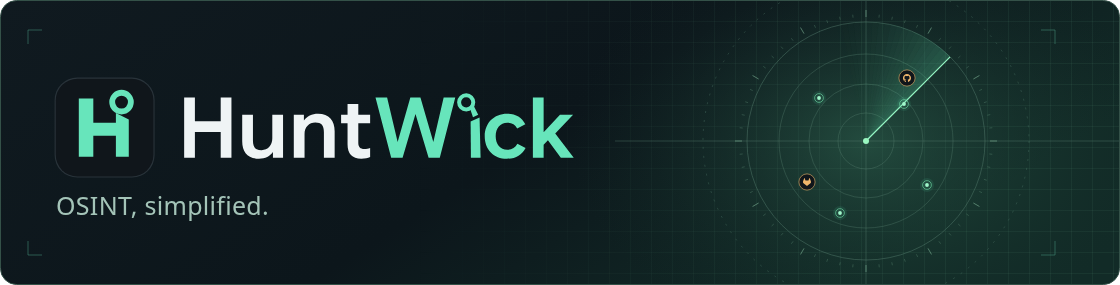
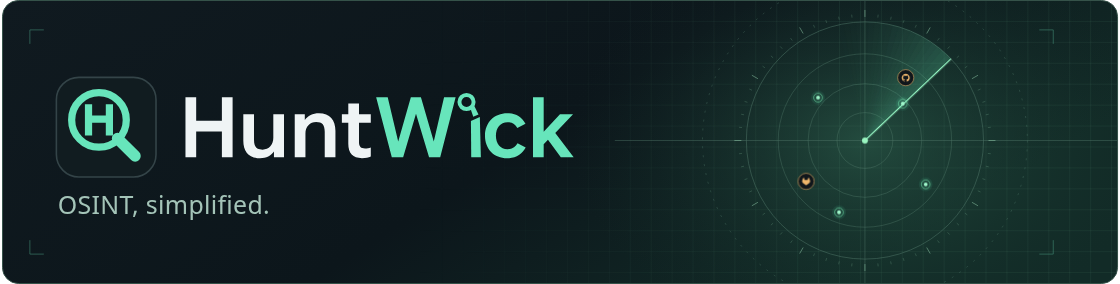
Record RC.6 console evidence, scoped live engine comparison and coverage limits [skip ci]

diff --git a/README.md b/README.md
@@ -10,7 +10,7 @@
 
 HuntWick Desktop is a local application for discovering public profiles that use a particular username. Enter a handle, choose **Quick search** for a curated set of platforms or **Full search** for every enabled compatible platform, then select **Search**. Results appear as checks finish. A matching username alone cannot establish identity or common ownership.
 
-![RC.5 desktop search console, rendered with fixture IPC](docs/rc5-media/dark.png)
+![RC.6 candidate desktop search console](docs/rc6-media/normal.png)
 
 [Desktop in light mode](docs/rc5-media/light.png) · [Web in light mode](docs/screenshots/web-light.png)
 
@@ -22,16 +22,18 @@ RC.5 is the published preview. In RC.4, open **Settings → Software updates →
 
 The installers bundle the Python runtime and Sherlock. Launch HuntWick from your applications menu. The platform directory and settings work offline. A live search needs a network connection to the selected sites.
 
-## Search workspace
+## Search workspace in the RC.6 candidate
+
+[Compact window](docs/rc6-media/compact-console.png) · [Coverage and live comparison](docs/rc6-quality.md)
 
 | Desktop engine | Default eligible platforms | Evidence |
 | --- | ---: | --- |
 | Sherlock Original | 394 | Original Sherlock verdict |
-| Enhanced Search | 396 | Native public lookups and Sherlock rules |
-| Maigret | 4,179 | Maigret 0.6.7 provider verdict |
-| Deep Search | 4,550 | One result per normalized profile, with individual source verdicts |
+| Enhanced Search | 396 | Native API verification, including Scratch, and remaining Sherlock rules |
+| Maigret | 4,186 | Maigret 0.6.7 provider verdict |
+| Deep Search | 4,552 | Combined coverage, prioritized checks, and expandable source verdicts |
 
-The pinned Maigret database contains 11,071 definitions. Upstream enables 10,335. HuntWick accepts 4,180 reviewed-route definitions before category preferences and records exclusion reasons for 6,891. Eligibility describes a supported rule. Sites can still time out, deny access or change their profiles. A provider claim and independent API evidence appear separately.
+The pinned Maigret database contains 11,071 definitions. Upstream enables 10,335. HuntWick accepts 4,188 reviewed-route definitions before category preferences and records exclusion reasons for 6,883. Eligibility describes a supported rule. Sites can still time out, deny access or change their profiles. A provider claim and independent API evidence appear separately.
 
 ```mermaid
 flowchart LR
@@ -45,11 +47,11 @@ flowchart LR
 
 ![Switching engines in the desktop console](docs/rc5-media/engine-selector.gif)
 
-The radar uses small circular blips with larger keyboard and pointer targets. Focus a blip for its platform and result state. New desktop installs enable restrained detection sounds. Scanning sounds are optional, with volume and previews in Settings. [Radar](docs/rc4-media/web-desktop.png) · [Update settings](docs/rc4-media/updates-dark.png) · [Original detection sound](docs/rc4-media/verified.wav)
+The radar uses small circular blips with larger keyboard and pointer targets. Each blip has a platform and result label; activating it opens the result link. New desktop installs enable restrained detection sounds. Scanning sounds are optional, with volume and previews in Settings. [Radar](docs/rc4-media/web-desktop.png) · [Update settings](docs/rc4-media/updates-dark.png) · [Original detection sound](docs/rc4-media/verified.wav)
 
-The desktop Search console can include adult-labeled platforms after confirmation and enable experimental upstream-excluded checks separately. The diagnostic JSON export omits handles and profile URLs. [Coverage and CLI comparison](docs/catalog-audit.md)
+The desktop Search console can include adult-labeled platforms with one persistent switch and enable experimental upstream-excluded checks separately. The diagnostic JSON export omits handles and profile URLs. [Coverage and CLI comparison](docs/catalog-audit.md)
 
-Settings and About provide stable and prerelease update checks. Installation requires a newer, signed release and a configured production verification key. The manual download path remains available for Debian and development builds. [Signing and installation](docs/packaging.md)
+In the RC.6 candidate, select **Include prereleases** for preview updates and use **Check for updates**. Installation requires a newer, signed release and a configured production verification key. The manual download path remains available for Debian and development builds. [Signing and installation](docs/packaging.md)
 
 
 - See the selected scope, progress, elapsed time and outcome counts. Cancel an active search to keep the results received so far.
@@ -83,11 +85,11 @@ The bundled adapter invokes the pinned Sherlock and Maigret Python libraries. De
 
 ## Roadmap
 
-The next release gate is owner acceptance of the RC.4-to-RC.5 in-app update. Further work includes validating more platform definitions and comparing timeout behavior on the owner’s network.
+RC.6 is under candidate testing. RC.5 remains the published preview while owner testing continues.
 
 ## Web Edition
 
-The browser radar displays actual verified and possible events. Select a marker for details. Optional synthesized detection sounds start off, and the browser loads platform logos from the same authenticated service. The web radar screenshots use synthetic demonstration events.
+The browser radar displays actual verified and possible events. Activate a marker to open its profile. Optional synthesized detection sounds start off, and the browser loads platform logos from the same authenticated service. The web radar screenshots use synthetic demonstration events.
 
 The access-restricted Web Edition serves the shared interface through FastAPI. Its preview catalog covers GitHub and GitLab. The service requires operator credentials and limits concurrent work. The operator can see the submitted username and client IP. Target sites receive requests from the service. Hosted deployment awaits owner approval. [Setup and privacy](docs/web-deployment.md)
 

diff --git a/docs/rc6-quality.md b/docs/rc6-quality.md
@@ -1,0 +1,41 @@
+# RC.6 desktop quality candidate
+
+Development starts at the published RC.5 documentation commit `78322d5`. Installers linked from the README and the production preview feed still deliver RC.5. [Candidate CI](https://github.com/ish4ra/HuntWick/actions/runs/45859587461)
+
+## What the four modes contribute
+
+| Mode | Default Full | Full with adult sites | Contribution |
+| --- | ---: | ---: | --- |
+| Sherlock Original | 394 | 410 | Stock-compatible Sherlock requests and verdicts |
+| Enhanced Search | 396 | 412 | Eight native public lookups, including a matching account ID and username check on Scratch, plus remaining Sherlock rules |
+| Maigret | 4,186 | 4,187 | Separately selectable rules from Maigret 0.6.7, including additional coding, creative and community profiles |
+| Deep Search | 4,552 | 4,569 | Union by normalized profile, complementary checks, and per-provider agreement or disagreement |
+
+Deep Search schedules Quick and native profiles first in large selections. A transient transport failure can leave time for another method. Identical failed requests are cached per profile for that attempt. Denials still stop the fallback. The result row exposes source verdicts even when they disagree. Partial coverage or an inaccessible service can still prevent a definitive outcome.
+
+## Live comparison
+
+The built React console used fixture desktop IPC to invoke the actual Python adapter. Each of the four selectors submitted a search for each of two requested public test handles against the same 11-platform selection, intersected with engine eligibility. The selection covered developer, gaming and creative sites with adult inclusion off. Three workers, five-second timeout, and the same cloud network were used throughout. Both handles yielded the following aggregate counts. The report omits account links and individual results.
+
+| Engine | Checked | Independently verified | Provider match | Negative | Error |
+| --- | ---: | ---: | ---: | ---: | ---: |
+| Sherlock Original | 7 | 0 | 1 | 2 | 4 |
+| Enhanced Search | 9 | 1 | 0 | 3 | 5 |
+| Maigret | 8 | 0 | 1 | 2 | 5 |
+| Deep Search | 11 | 1 | 0 | 3 | 7 |
+
+Deep checked four more platforms than Sherlock and two more than Enhanced. Each mode returned one visible candidate per handle. These runs establish routing and differences in evidence, but yielded **zero additional live matches** for Deep. The synthetic regression separately exercises a complementary provider recovering a match after a connection failure. No owner Full Search benchmark was performed.
+
+## Adult-profile coverage
+
+Desktop starts with adult sites excluded and preserves existing choices on upgrade. Turning on the labeled switch explicitly enables the category and saves the setting. Both Search and Settings read the same state. Full includes all eligible enabled sites. Quick remains curated. Balanced shows match candidates. All results includes negatives, denials and errors.
+
+Meendo now has an opt-in Maigret profile route in Maigret and Deep. Erome is available through Sherlock Original, Enhanced and Deep with adult inclusion enabled. The added tests check catalog filtering, engine routing, consent persistence and opt-out.
+
+SpankBang has no rule in either pinned engine database or the reviewed WhatsMyName snapshot. Two third-party catalogs suggest different paths, `/profile/{username}` and `/p/{username}`. Neither entry supplies a verified positive/negative detection rule. Anonymous HEAD probes using a synthetic absent handle were denied during proxy CONNECT (403) on both routes; the origin returned no response. The platform is listed as unavailable. [Tookie catalog](https://github.com/Alfredredbird/tookie-osint/blob/228182a0f1a8b2f034d233556f6c80e405c21a66/sites/sites.json) · [Aliens Eye catalog](https://github.com/arxhr007/Aliens_eye/blob/932d751bfdad48150e432c6fc5b47f48c249a794/src/aliens_eye/data/sites.json)
+
+## Desktop evidence
+
+The Chromium checks exercised the actual sidecar from the built UI, checked the switch across reload and opt-out, and checked horizontal overflow at 1280×820 and 760×540. The compact results image uses synthetic events to show pacing, logos and layout. Rate and estimated remaining time use completed platform checks and elapsed time, including startup. Estimates become visible after three checks and three seconds.
+
+[Normal window](rc6-media/normal.png) · [Minimum window](rc6-media/compact.png) · [Compact search console](rc6-media/compact-console.png) · [Compact results and pace](rc6-media/compact-results.png)
